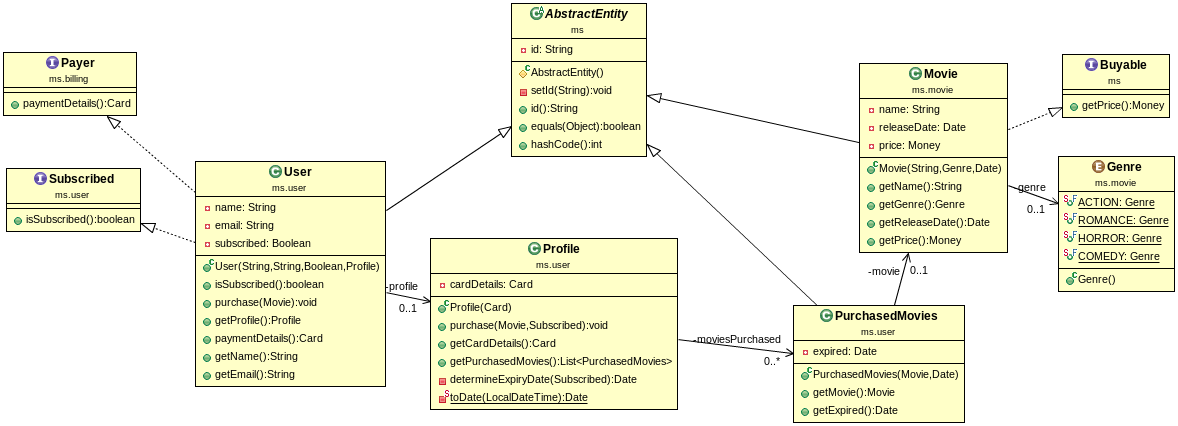
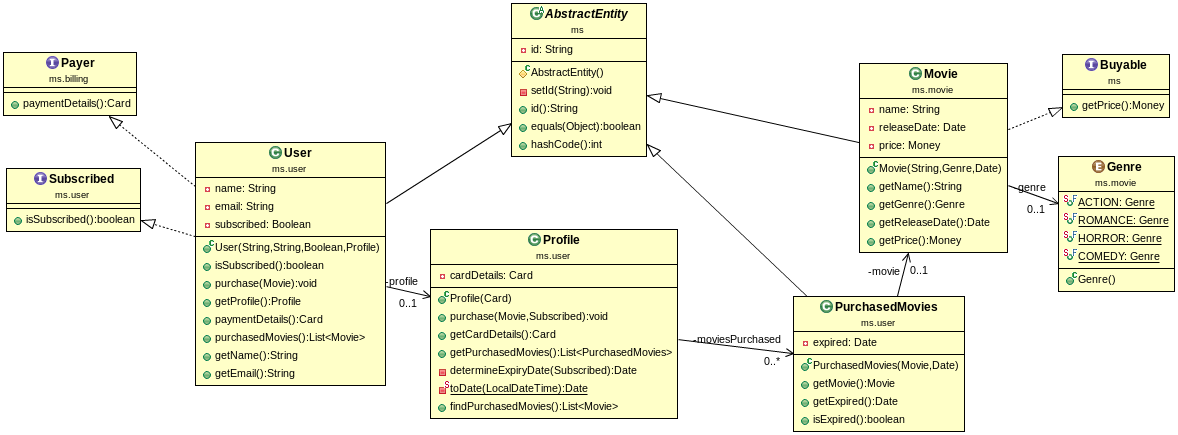
Show purchased movies

diff --git a/src/test/java/ms/user/UserTest.java b/src/test/java/ms/user/UserTest.java
@@ -1,5 +1,6 @@
 package ms.user;
 
+import static org.junit.Assert.assertEquals;
 import static org.junit.Assert.assertFalse;
 import static org.junit.Assert.assertNotNull;
 import static org.junit.Assert.assertNull;
@@ -13,6 +14,7 @@ import ms.movie.Movie;
 import org.junit.Test;
 
 public class UserTest {
+    private Movie movie = new Movie("name", Genre.ACTION, new Date());
 
     @Test
     public void shouldConstruct() {
@@ -27,7 +29,7 @@ public class UserTest {
     @Test
     public void shouldPurchaseMovie() {
         User user = createUser(false);
-        user.purchase(new Movie("name", Genre.ACTION, new Date()));
+        user.purchase(movie);
         assertFalse(user.getProfile().getPurchasedMovies().isEmpty());
         assertNotNull("Movie should have expiry date", user.getProfile().getPurchasedMovies().get(0).getExpired());
     }
@@ -35,7 +37,15 @@ public class UserTest {
     @Test
     public void registeredUserMovie_DoesNotExpire() {
         User user = createUser(true);
-        user.purchase(new Movie("name", Genre.ACTION, new Date()));
+        user.purchase(movie);
         assertNull("Movie should NOT have expiry date", user.getProfile().getPurchasedMovies().get(0).getExpired());
+    }
+
+    @Test
+    public void shouldFindNotExpiredMovies() {
+        User user = createUser(true);
+        user.purchase(movie);
+        Movie actualMovie = user.purchasedMovies().get(0);
+        assertEquals(movie, actualMovie);
     }
 }

diff --git a/src/main/java/ms/user/Profile.java b/src/main/java/ms/user/Profile.java
@@ -48,4 +48,15 @@ public class Profile {
         return Date.from(ldt.atZone(ZoneId.systemDefault()).toInstant());
     }
 
+    public List<Movie> findPurchasedMovies() {
+        List<Movie> movies = new ArrayList<>();
+
+        for (PurchasedMovies purchasedMovies : getPurchasedMovies()) {
+            if (!purchasedMovies.isExpired()) {
+                movies.add(purchasedMovies.getMovie());
+            }
+        }
+
+        return movies;
+    }
 }

diff --git a/src/main/java/ms/user/User.java b/src/main/java/ms/user/User.java
@@ -1,5 +1,7 @@
 package ms.user;
 
+import java.util.List;
+
 import ms.AbstractEntity;
 import ms.billing.Card;
 import ms.billing.Payer;
@@ -36,6 +38,10 @@ public class User extends AbstractEntity implements Subscribed, Payer {
     @Override
     public Card paymentDetails() {
         return profile.getCardDetails();
+    }
+
+    public List<Movie> purchasedMovies() {
+        return profile.findPurchasedMovies();
     }
 
     public String getName() {

diff --git a/src/main/java/ms/user/PurchasedMovies.java b/src/main/java/ms/user/PurchasedMovies.java
@@ -24,4 +24,8 @@ public class PurchasedMovies extends AbstractEntity {
         return expired;
     }
 
+    public boolean isExpired() {
+        return expired != null && expired.before(new Date());
+    }
+
 }
